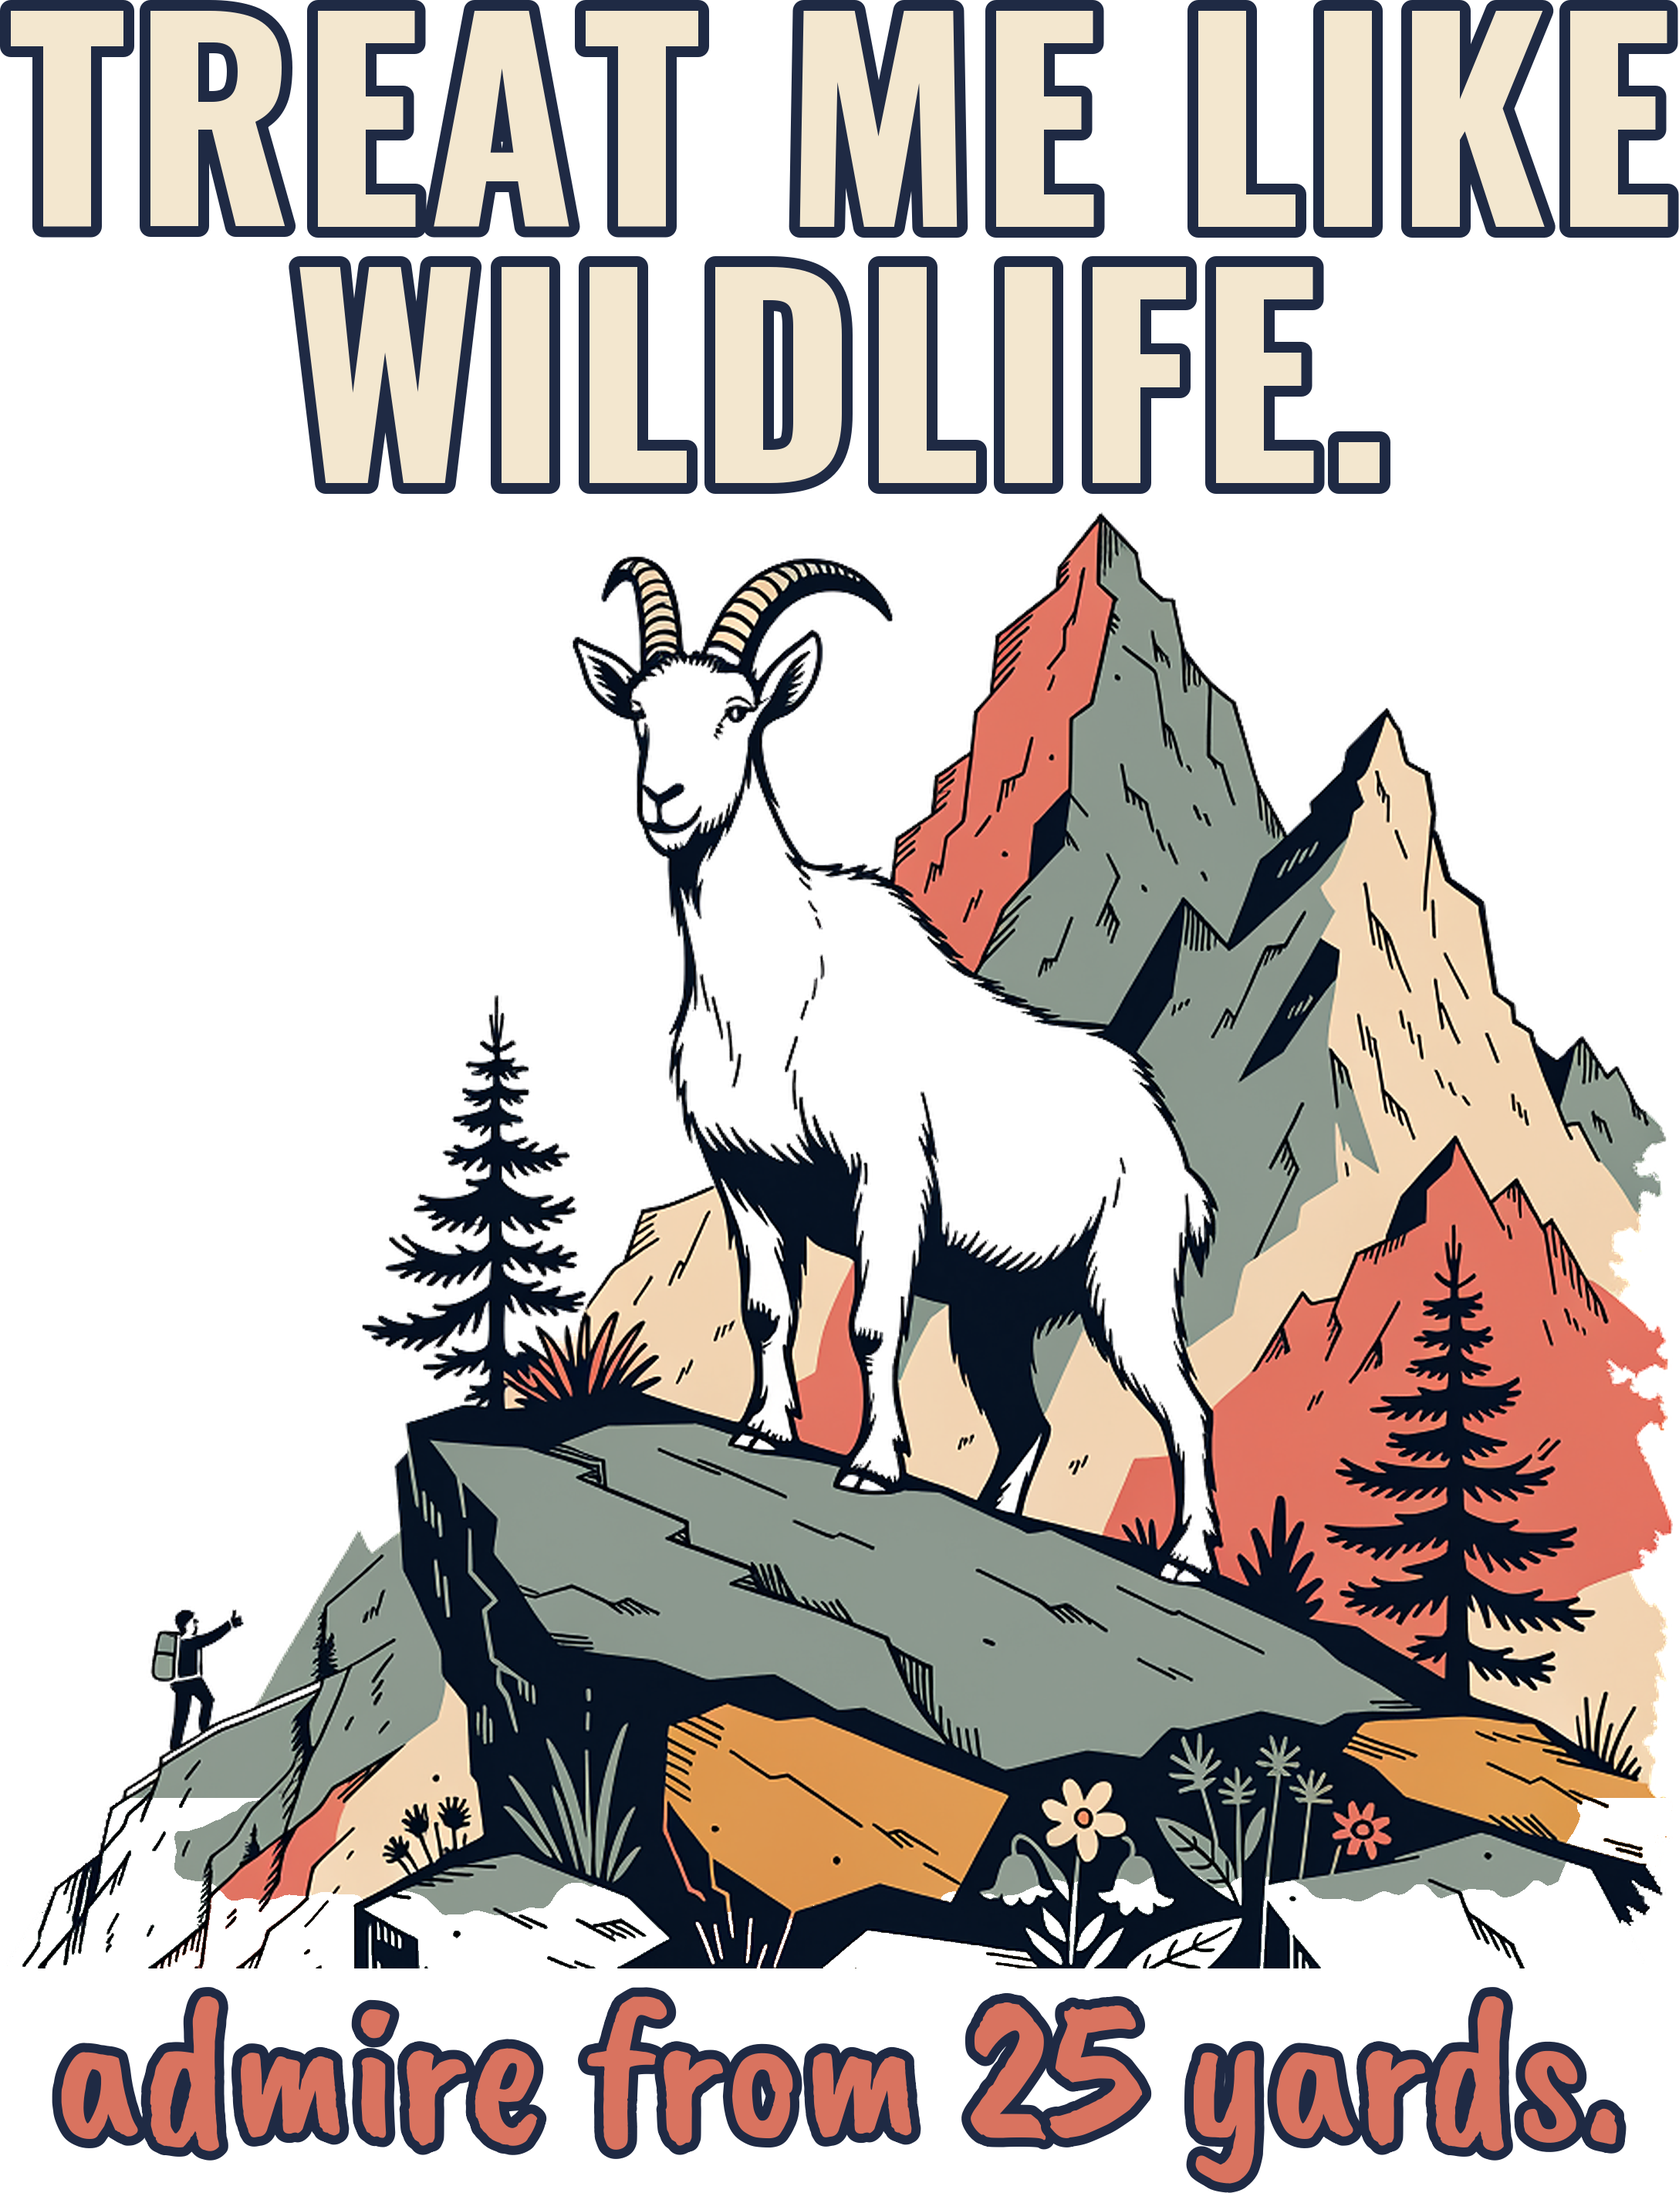
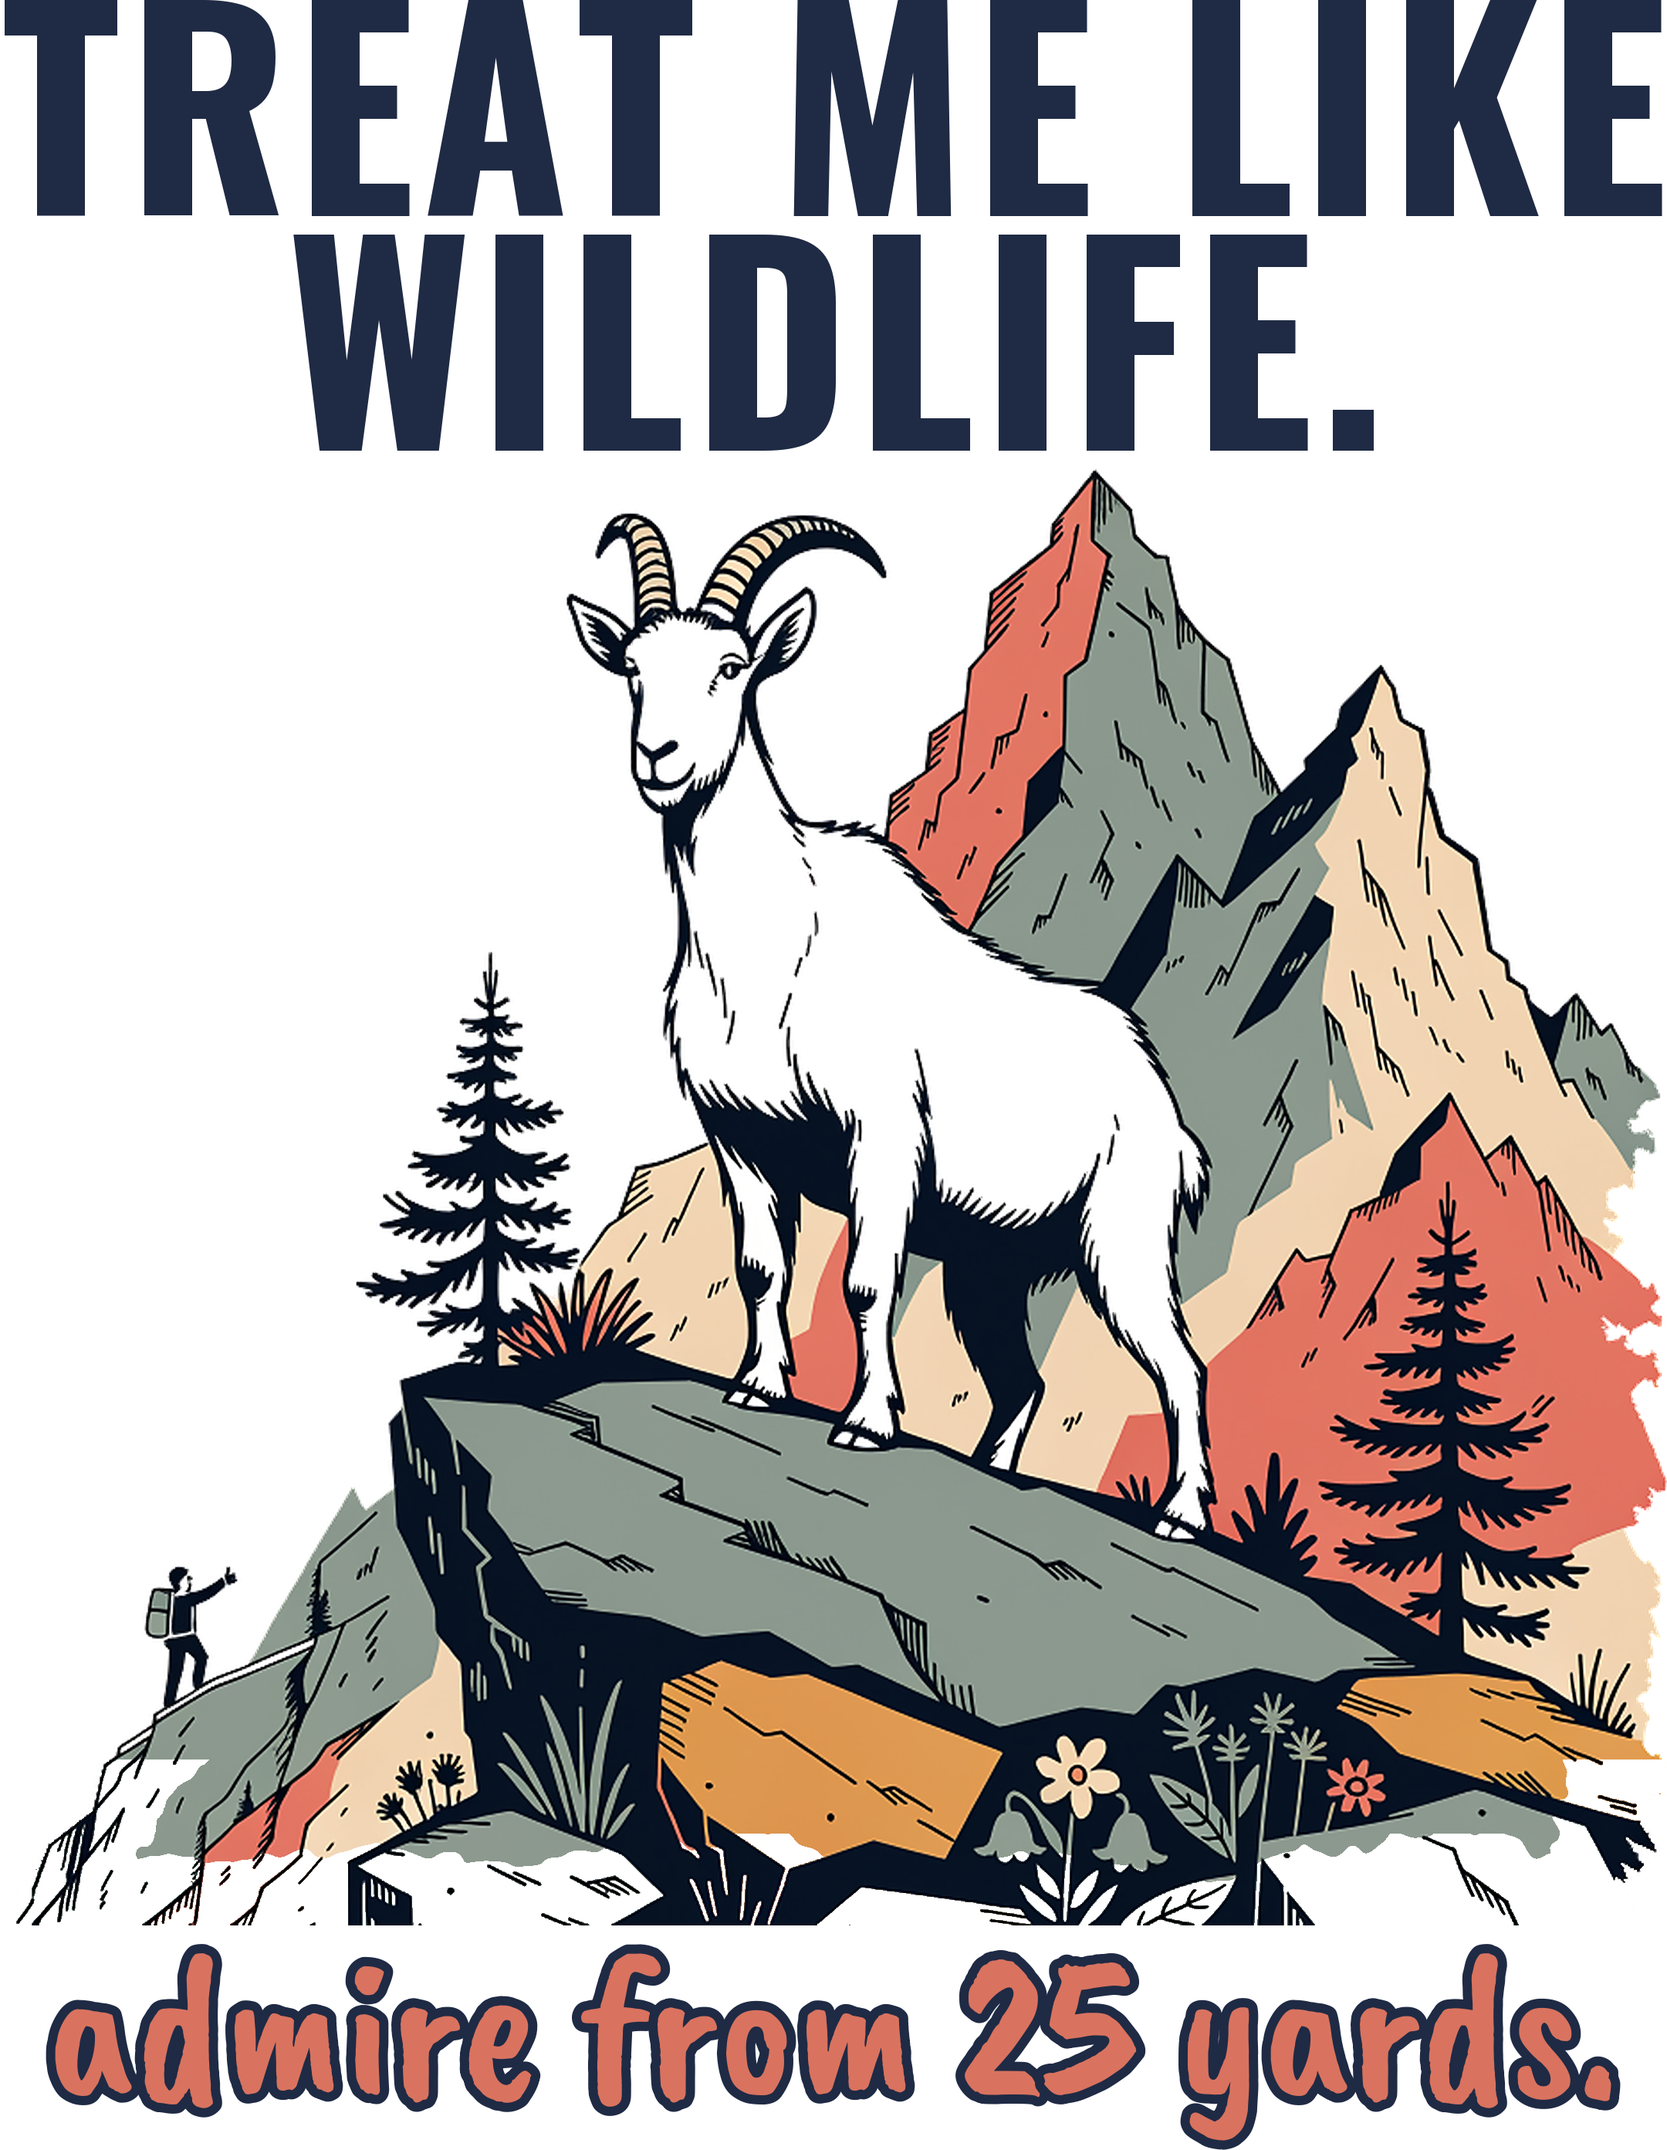
[E] wip REDO 555 navy-headline file, mockups, cover recomposite (sync running)
Claude-Session: https://claude.ai/code/session_01Lr4WsmixfBZLNYCJnS7Job

Changed region(s): [[0.0, 0.0, 1.0, 1.0]]

diff --git a/docs/pipeline/555-hiking-tee-treat-me-like-wildlife.md b/docs/pipeline/555-hiking-tee-treat-me-like-wildlife.md
@@ -31,3 +31,4 @@ kd: 14
 - 2026-10-18 05:35 UTC builder [E]: built (sync queued behind 486). Art: 2 Recraft calls ($0.08): try 1 had a solid sage canvas fill (a panel), try 2 on white kept; bottom 16% cropped with a worn edge (ragged-edge.py) so the tee print fits the 1800 px area. TREAT ME LIKE / WILDLIFE. Oswald 700 cream with navy keyline above, admire from 25 yards. CaveatBrush coral #d9735f with navy keyline below, set in compose-print (no model lettering); print 2176 x 2842 px, white-gap check done: goat body and sky are knocked out (garment shows), no stray white. Brief asked FW 1650 but the 6400 print area is 1500 px wide and the print is 1.31 x taller than wide, so FW 1300 TOP 60 (1698 px tall, bottom at 1758 of 1800), 8.7 in wide. Colors White, Natural, Heather Stone, Athletic Heather, Pink, Light Violet (36 variants); Printful file 1088712938; mockups for all 6 colors + back attached and linked; read both lines on White and Natural at 400 px. DRAFT gid 15364747755824 (category aa-1-13-8, $24.99 no compare-at, 5 FAQs 45-54 words incl. Dec 8, keyword hiking shirt women 4400/KD14 in line one, meta and kw map). Cover registry 895: attempt 1 kept (seedream, hair in ponytail clear of the T, hands in pockets, all words read). Audit-local PASS; variant-photo audit clean. fal ~$0.2.
 - 2026-10-18 06:26 UTC builder [E]: sync 36/36 confirmed on file 1088712938. REVIEW.
 - 2026-10-18 06:27 UTC director: REDO (stays DRAFT). Art, joke and cover scene are good. (1) R5.3.8 / R5.3.5: TREAT ME LIKE / WILDLIFE. is cream with a thin navy keyline, and on the White and Pink mockups (and the white cover tee) it washes out: the headline is the faintest thing on the shirt at phone size. Make a light-colors file with the headline in solid navy (keep the coral script line, it reads), link it to every light color, keep the cream version only for any dark color, and read both lines on each mockup at about 400 px wide. (2) R6.9: after the file change, re-composite the cover chest from the new White mockup (clean erase first) and remake docs/review/555.jpg.
+- 2026-10-18 09:16 UTC builder [E]: REDO fixed (re-sync running). (1) Light file: TREAT ME LIKE / WILDLIFE. now solid navy #1f2a44 (fill changed, no keyline) in Oswald 700, coral script kept; all six colors (White, Natural, Heather Stone, Athletic Heather, Pink, Light Violet) are light, so every variant links to the one navy-headline file (no cream file is needed). Print 2160 x 2786 px (bottom edge worn with ragged-edge.py), FW 1300 TOP 60. Printful file 1088782824; all 36 variants re-sync with FORCE, REVIEW only when Printful reports 36/36 on that id. New mockups for all 6 colors read at 400 px (headline clearly the strongest line on White and Pink); Shopify front images replaced and re-linked per color, back view kept. (2) Cover re-composited from the new print (no new fal: the $16 daily cap is spent, and a generation was not needed): the old print area erased by inpainting from the surrounding white fabric, the remaining faint smear removed with a fabric-colour fill outside the print's alpha only, the new print placed at the old print's true width (180 px on the 600 px cover), hair kept as it was; zoomed to 200%: no smear, patch or halo. docs/review/555.jpg remade. fal $0.

diff --git a/docs/intake-log.md b/docs/intake-log.md
@@ -83,7 +83,7 @@ RUNNING lane A since 2026-10-18 06:29 UTC
 2026-10-18 05:43 UTC — [A] [A] 541 It Looked Smaller at the Farm crewneck (twin of 540): 12/12 synced, REVIEW
 2026-10-18 05:42 UTC — [A] [A] 491 Embroidered Ghost One More Chapter Club crewneck built (new art), embroidery link running 482690521; REVIEW once 12/12
 2026-10-18 05:32 UTC — [D] Director run: inbox nothing new. Reviewed 17 REVIEW items: 7 LIVE (#281 #284 #525 #533 #535 #573 #575; all ACTIVE + Online Store/Headless/Google & YouTube, audit --handle PASS 0 warn, Printful file checked on every variant; copy fixes: #281 no longer says candy-stripe, #575 'Jesus' capitalised, #573 no shrug, #525 line position, #533/#535 keyword cut from 4 to 3 uses). 10 REDO: lane A lettering REDOs #149 #247 #248 #249 #250 #253 #254 still have the OLD plaid/gingham file on every Printful variant (re-link never finished) and stale review sheets (checked from live covers + Shopify mockups instead); #149/#249 covers smeared where the old print was erased, #248 stray mark, #250 hair over a; #534 WALLET EMPTY clipped off every mockup; #536 'Don'ttalk' spacing + ghost door; #332 hair over the bow. Rulebook: R6.9 clean-erase line and R7.7 re-link proof line (3+ hits each). #573 #575 to reference/best. 12 briefs #586-#597 (A: capybara Christmas tee + crewneck twin, raccoon Christmas tee + crewneck twin; B: capybara, wrestling mom, wrestling, feral cat, possum, otter, corgi, hockey tees); KD ≤ 20 band empty for these niches, so KD 21-35 first then measured KD 36+ over 1,000/month; registry 926-937, keyword map updated. Stale RUNNING lines for lanes A/B (Oct 17 23:5x) and C (01:55) cleared. READY: A 13, B 12, C 13, E 12. No Telegram (not a digest run, nothing needs Sam). Lock released.
-RUNNING lane E since 2026-10-18 05:15 UTC (syncing queued Printful links; heartbeat 09:07 UTC)
+RUNNING lane E since 2026-10-18 05:15 UTC (REDO batch 555 559 577 534 536 then READY items)
 2026-10-18 09:11 UTC — [E] REVIEW #537 Women's Gym Lifts Heavy, Has Whimsy pump cover (DRAFT, synced 10/10, Size only; fal ~$0.2).
 2026-10-18 09:08 UTC — [E] REVIEW #538 Women's Mom Motherhood Didn't Change Me tee (DRAFT, synced 30/30, 5 colors; fal ~$0.1).
 2026-10-18 08:55 UTC — [E] REVIEW #579 Men's Grandpa Ask Your Grandmother tee (DRAFT, synced 28/28, 4 colors; fal ~$0.1).
